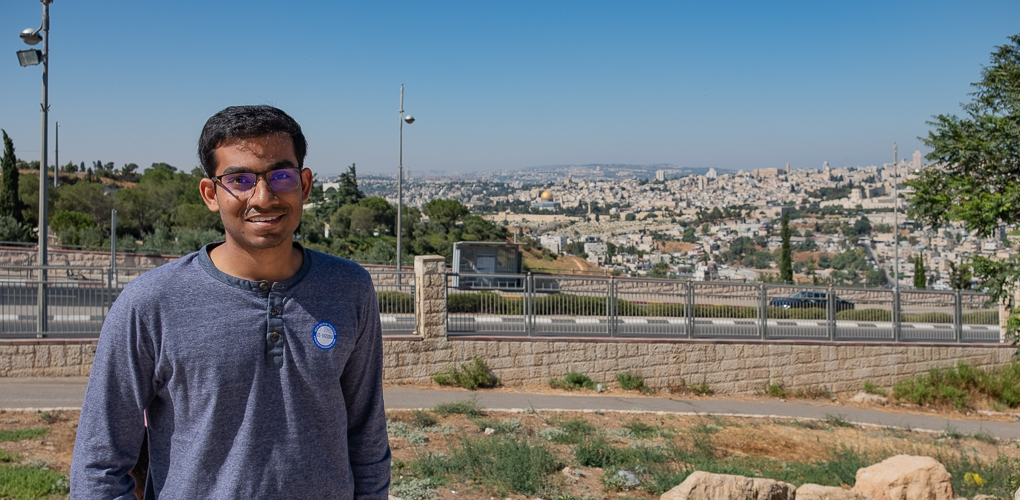
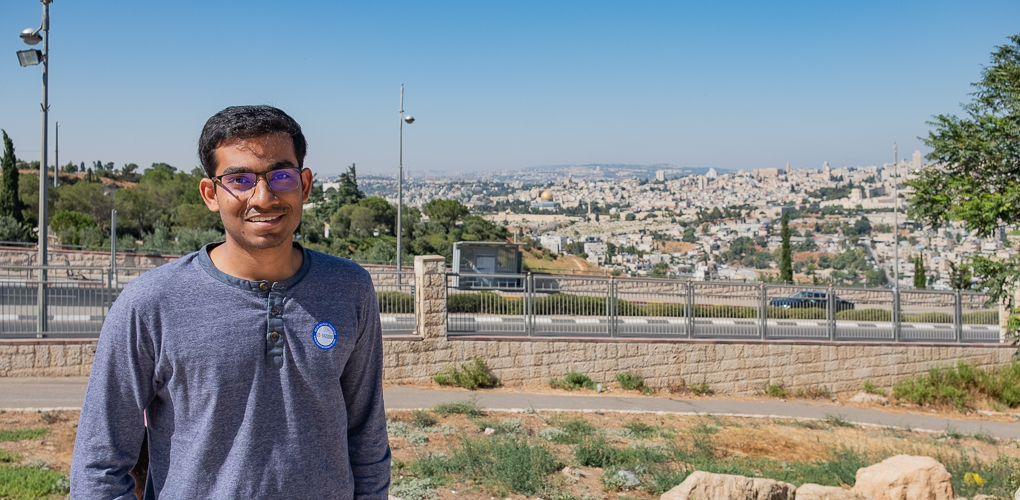
Slight update to picture and margin

diff --git a/index.html b/index.html
@@ -26,7 +26,7 @@
     <div class='wrapper'>
         <p>
             <a href="https://en.wikipedia.org/wiki/Jerusalem" target="_blank">
-                <img href="https://en.wikipedia.org/wiki/Jerusalem" style="padding: 0 15px; float: left;" src="./img/jerusalem.jpg" height=175/>
+                <img href="https://en.wikipedia.org/wiki/Jerusalem" style="padding: 0 25px; float: left;" src="./img/jerusalem.jpg" height=175/>
             </a>
             <p style="font-size:25px; font-weight:500; margin: 0 0 -5px">Biswajit Paria</p><br>
             PhD student<br>
@@ -39,7 +39,6 @@
             <a href="https://twitter.com/biswajitsc">Twitter</a>
         </p>
 
-        <br>
         <br>
 
         <p align='justify'>
